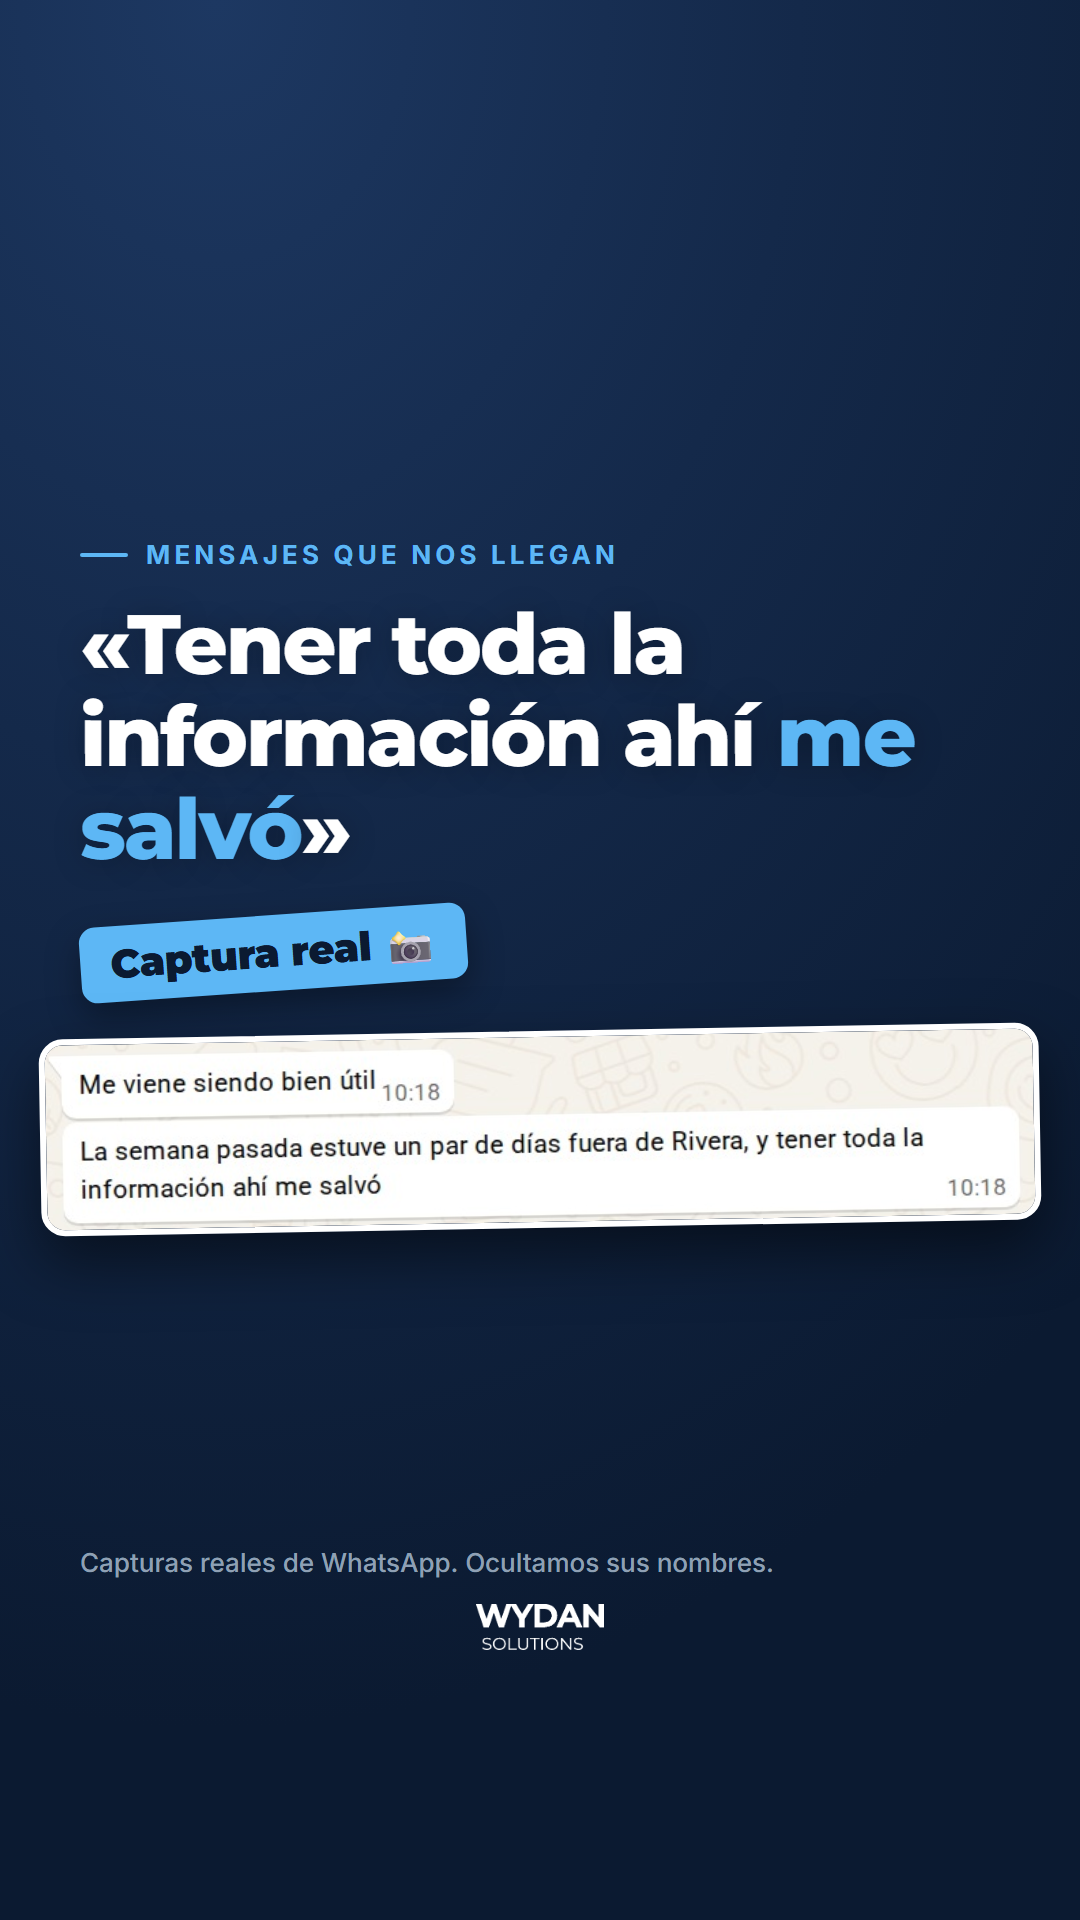
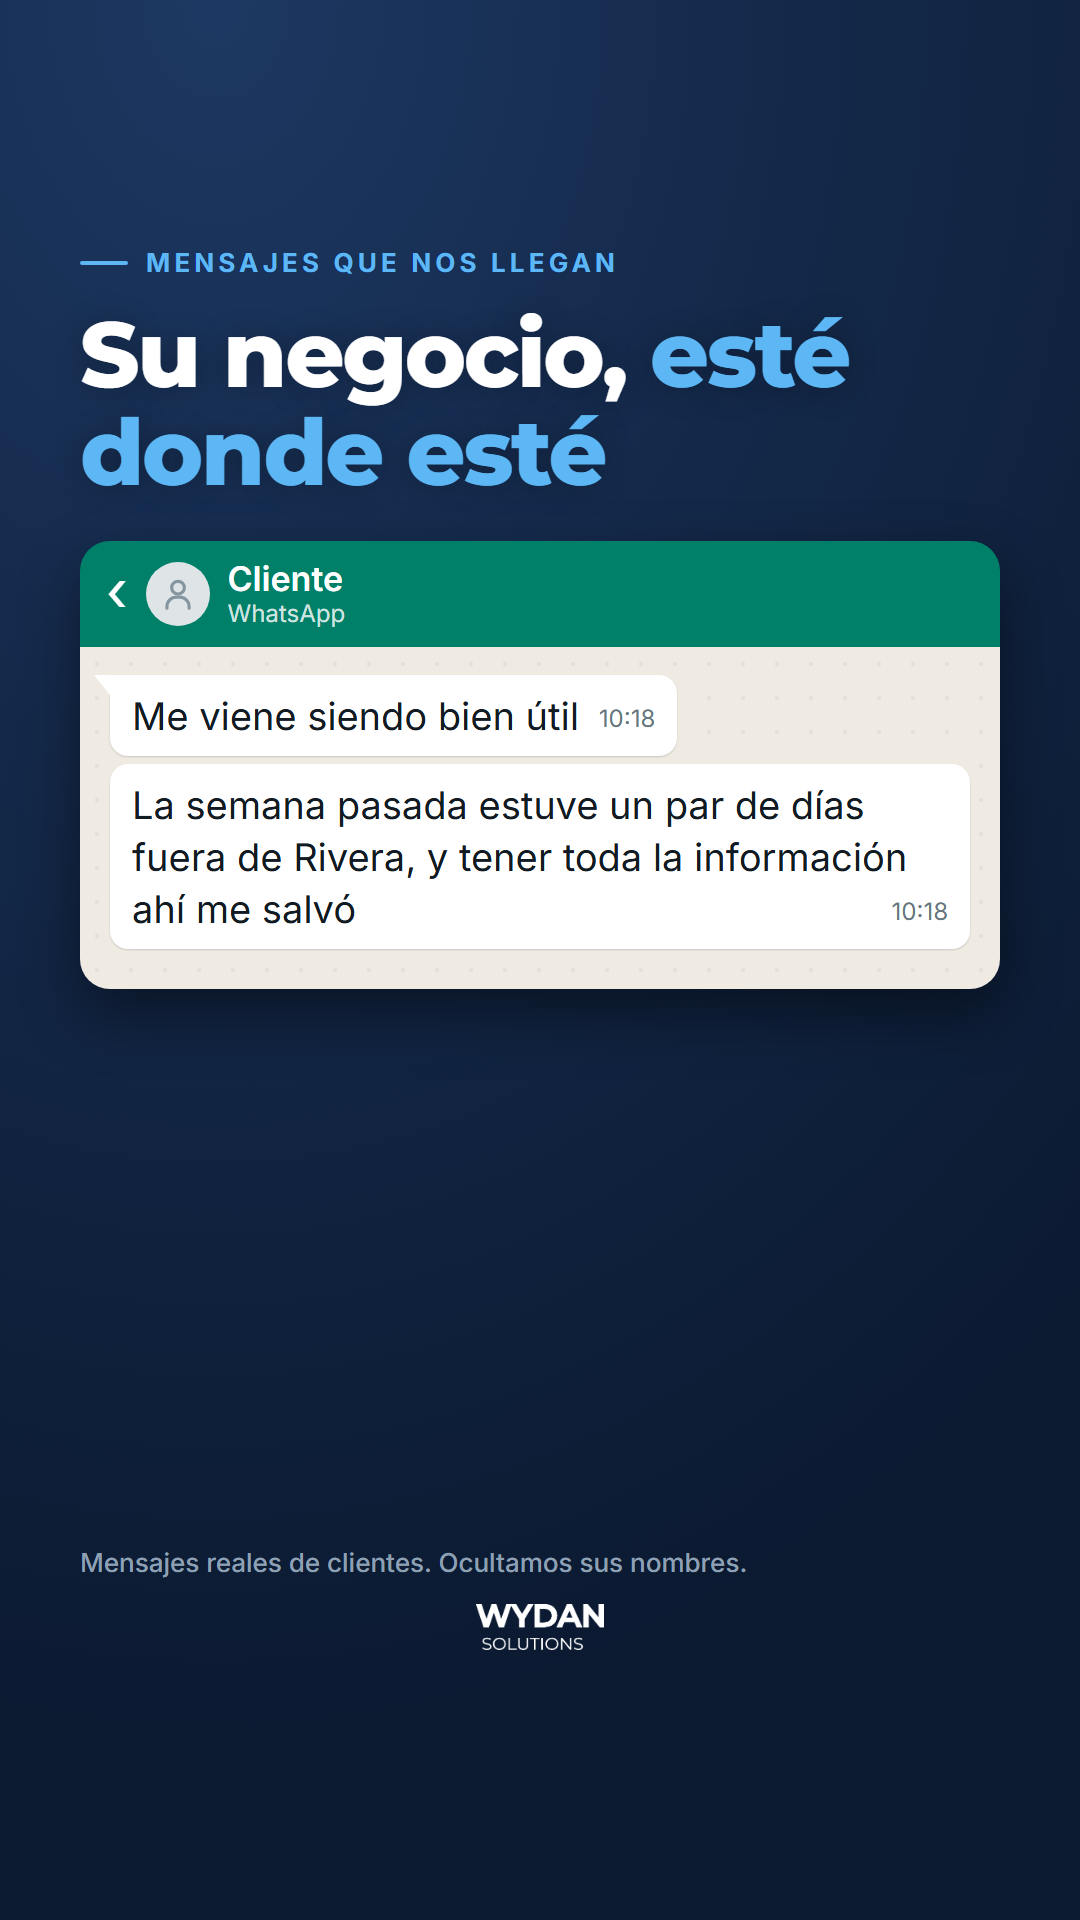
Clientes: vuelven los mensajes de WhatsApp pasados a texto (se leen mejor en el celular)

diff --git a/publicaciones.js b/publicaciones.js
@@ -296,14 +296,27 @@ const HISTORIAS = {
   ],
   'd3-clientes': [
     { tipo: 'h-portada', foto: 'fotos/escritorio-ordenado.jpg', pos: 'center', sticker: 'Testimonios reales', chip: 'Clientes', titulo: 'Lo que dicen <em>quienes ya la usan</em>', bajada: 'Tocá para leerlos →' },
-    // Capturas originales de WhatsApp de clientes (23/9 al 29/10/2026), recortadas a SOLO los globos del cliente en
-    // img/capturas/ (sin nombres; el pueblo de la colega tapado en azul). Las capturas enteras no se guardan acá.
-    // w = ancho del recorte en px (se agranda hasta el doble, sin pasar de 920).
-    { tipo: 'h-capturas', chip: 'Mensajes que nos llegan', titulo: '«Lo uso <em>a diario y a cada rato</em>»', capturas: [{ id: 'gracias', w: 735 }, { id: 'todos-dias', w: 450 }] },
-    { tipo: 'h-capturas', chip: 'Mensajes que nos llegan', titulo: '«Todo lo q necesito <em>en 1 solo</em>»', capturas: [{ id: 'muy-bueno', w: 520 }, { id: 'vencimiento', w: 725 }] },
-    { tipo: 'h-capturas', chip: 'Mensajes que nos llegan', titulo: '«Tener toda la información ahí <em>me salvó</em>»', capturas: [{ id: 'fuera', w: 725 }] },
-    { tipo: 'h-capturas', chip: 'Mensajes que nos llegan', titulo: '«Muchas gracias, <em>quedó perfecto!!!</em>»', capturas: [{ id: 'feliz', w: 380 }, { id: 'perfecto', w: 440 }] },
-    { tipo: 'h-capturas', chip: 'Mensajes que nos llegan', titulo: '«Una colega amiga <em>se va a poner en contacto</em>»', capturas: [{ id: 'colega', w: 720 }] },
+    // Mensajes reales de clientes por WhatsApp (capturas del 23/9 al 29/10/2026), pasados a texto y dibujados como
+    // pantalla de WhatsApp (elegido por la usuaria: se leen mejor que las capturas de la compu). Solo lo que escribió
+    // el cliente, sin nombres, números ni fotos; cada chat es una persona distinta. Cada mensaje: [hora, texto].
+    { tipo: 'h-chat', chip: 'Mensajes que nos llegan', titulo: 'La usan <em>todos los días</em>', grupos: [
+      { mensajes: [['15:33', 'Hola, ¿cómo estás? Bueno nada, paso para agradecer la mano que me dieron con la página, la verdad que no sabía que estaba tan desordenada.. jajaja'], ['15:33', 'Fuera de joda, la verdad muchas gracias.. lo uso a diario y a cada rato.']] },
+      { mensajes: [['10:15', 'todos los días estoy haciendo algo en él']], corazon: true },
+    ] },
+    { tipo: 'h-chat', chip: 'Mensajes que nos llegan', titulo: 'Todo <em>en un solo lugar</em>', grupos: [
+      { mensajes: [['18:42', 'No, no. Muy bueno. Todo lo q necesito en 1 solo']], corazon: true },
+      { mensajes: [['10:16', 'en estos días de vencimiento, cuando hago el boleto de pago, ya voy cargando la info de cada cliente y agregando su línea en las pestañas correspondientes']] },
+    ] },
+    { tipo: 'h-chat', chip: 'Mensajes que nos llegan', titulo: 'Su negocio, <em>esté donde esté</em>', grupos: [
+      { mensajes: [['10:18', 'Me viene siendo bien útil'], ['10:18', 'La semana pasada estuve un par de días fuera de Rivera, y tener toda la información ahí me salvó']] },
+    ] },
+    { tipo: 'h-chat', chip: 'Mensajes que nos llegan', titulo: 'Cuando reciben <em>su página</em>', grupos: [
+      { mensajes: [['15:46', 'este sería el instalador del cel?'], ['15:46', 'ay estoy felizzzzzz']], corazon: true },
+      { mensajes: [['9:51', 'Buenas, muchas gracias, ¡quedó perfecto!!!']], corazon: true },
+    ] },
+    { tipo: 'h-chat', chip: 'Mensajes que nos llegan', titulo: 'Y nos <em>recomiendan</em> 🙌', grupos: [
+      { mensajes: [['12:30', 'Y una colega amiga […] se va a poner en contacto contigo']], corazon: true },
+    ] },
     { tipo: 'h-testimonio', rubro: 'Taller de camiones', ciudad: 'Rivera',
       texto: 'Desde que comenzamos a utilizar el aplicativo, la forma de gestionar el taller ha mejorado muchísimo. […] Estamos muy conformes y contentos con el resultado. […] Sin dudas, recomendamos esta herramienta.' },
     { tipo: 'h-testimonio', rubro: 'Estudio Contable W. Machado', ciudad: 'Rivera',

diff --git a/index.html b/index.html
@@ -195,7 +195,7 @@ Tu negocio ordenado en una página hecha para vos
   <div id="publicaciones"></div>
 </div>
 
-<script src="publicaciones.js?v=202610291943"></script>
+<script src="publicaciones.js?v=202610291945"></script>
 <script>
   const VIDEOS = 'videos/';
   const carpeta = p => `imagenes/${String(p.n).padStart(2, '0')}-${p.id}/`;
